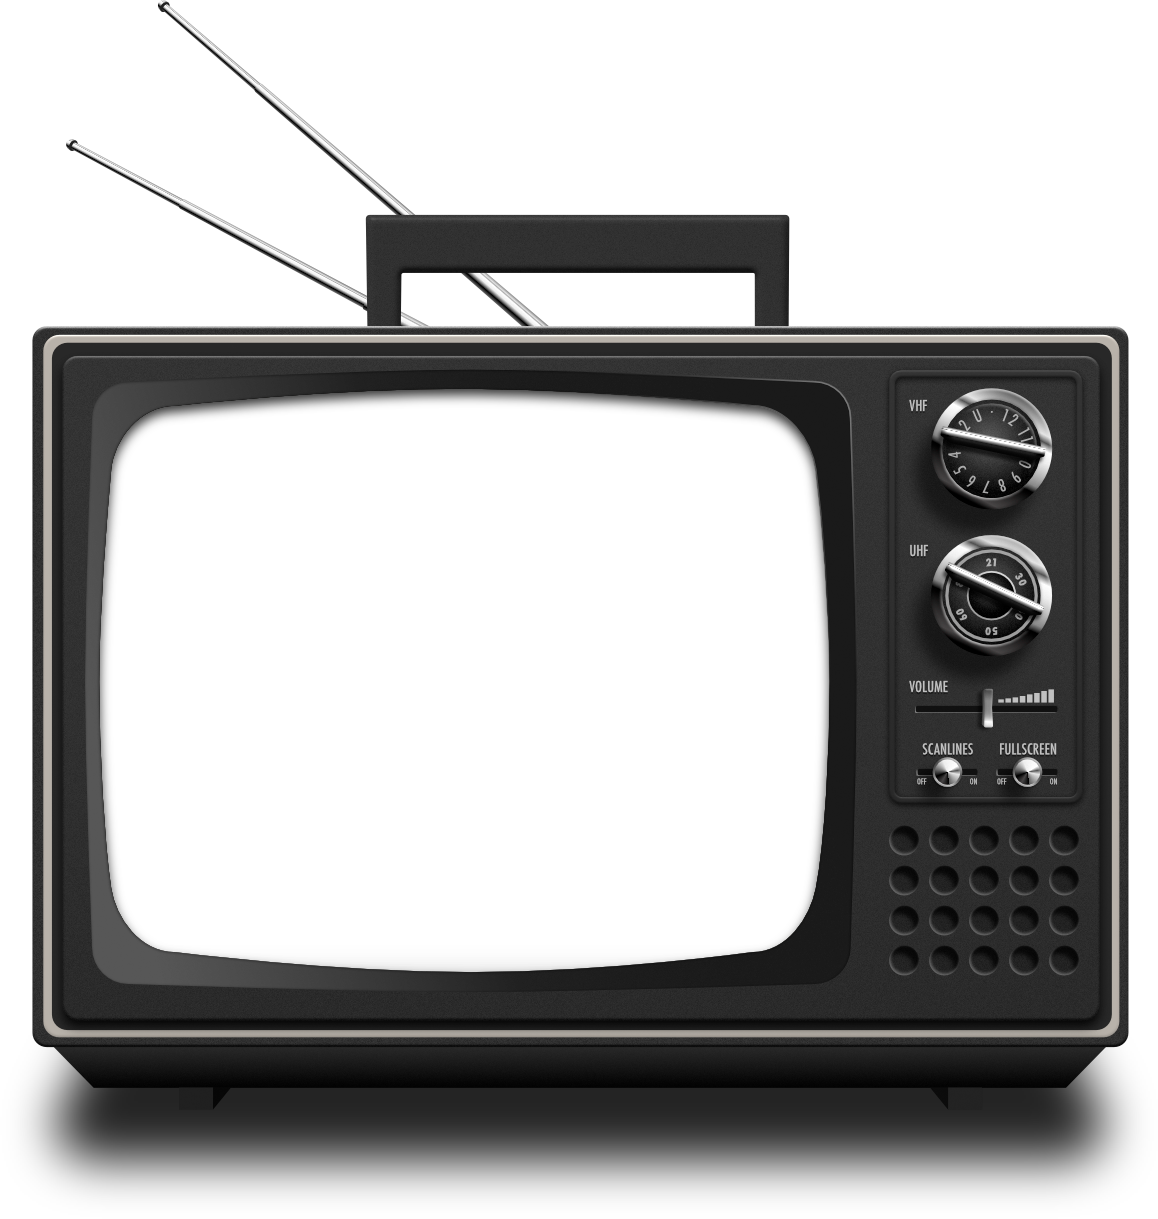
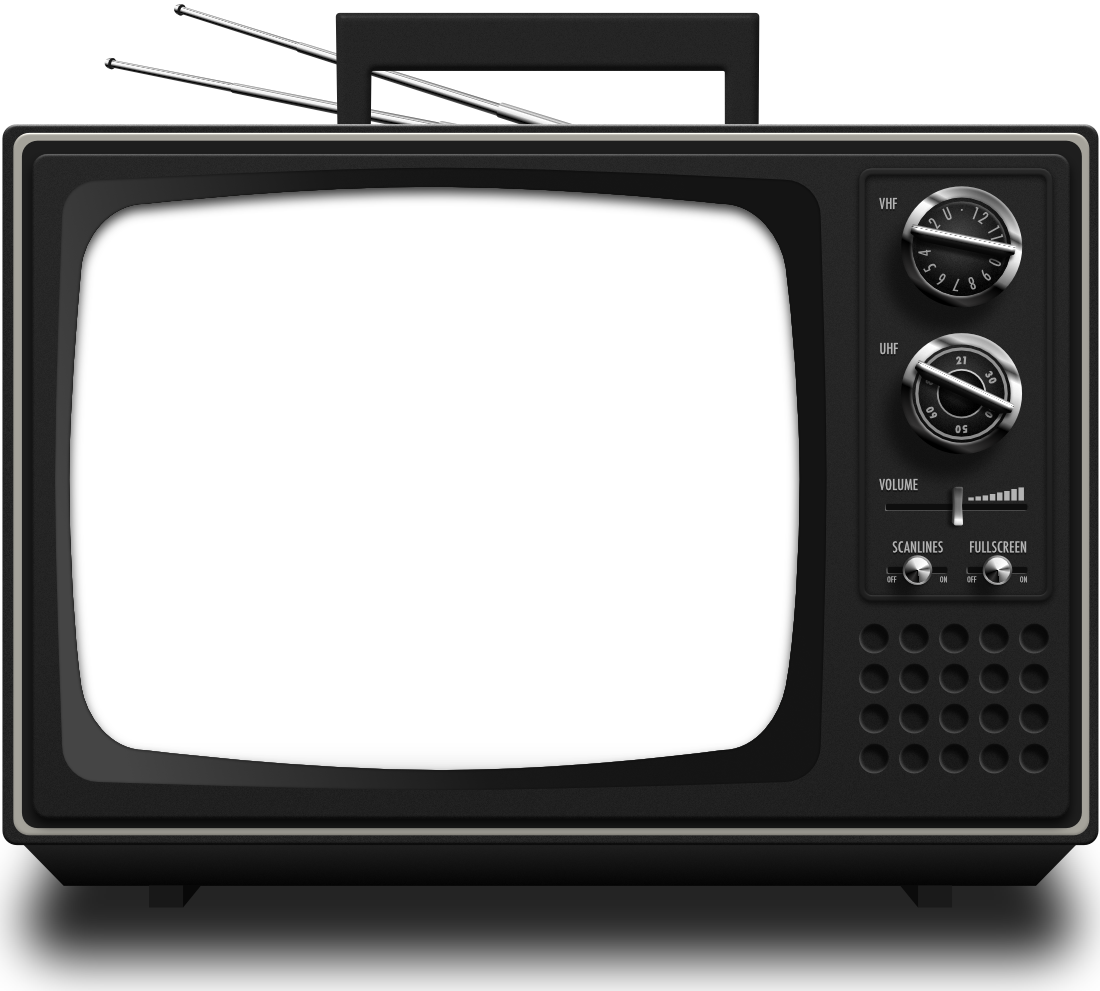
better tv integration

diff --git a/game/ghosttownJS/css/stylesheet.css b/game/ghosttownJS/css/stylesheet.css
@@ -126,8 +126,8 @@ canvas{
   -moz-box-shadow:    0px 11px 23px -1px rgba(0,0,0,0.7);
   box-shadow:         0px 11px 23px -1px rgba(0,0,0,0.7);
   position:relative;
-  left:90px;
-  top:360px;
+  left:50px;
+  top:160px;
   z-index:1;
 }
 
